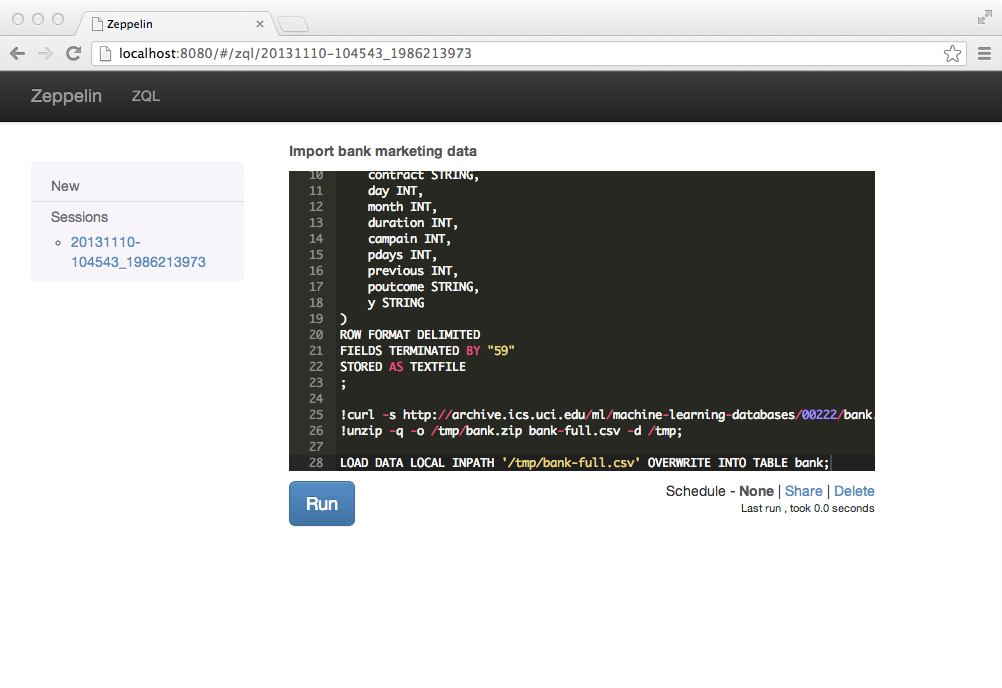
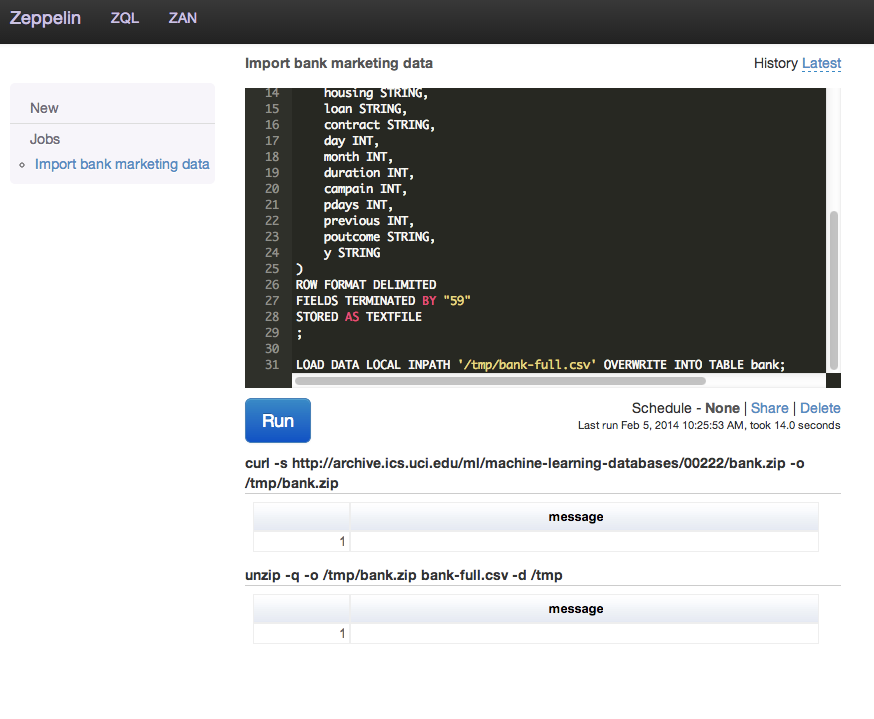
ZEPPELIN-91 Update homepage for 0.3.0

diff --git a/docs/install/install.md b/docs/install/install.md
@@ -17,14 +17,14 @@ curl -O http://apache.mirror.cdnetworks.com/hadoop/common/hadoop-1.2.1/hadoop-1.
 tar -xzf hadoop-1.2.1-bin.tar.gz
 
 # download zeppelin and unarchive
-curl -O https://s3-ap-northeast-1.amazonaws.com/zeppel.in/zeppelin-0.2.0.tar.gz
-tar -xzf zeppelin-0.2.0.tar.gz
+curl -O https://s3-ap-northeast-1.amazonaws.com/zeppel.in/zeppelin-0.3.0.tar.gz
+tar -xzf zeppelin-0.3.0.tar.gz
 
 # set HADOOP_HOME
-echo "export HADOOP_HOME=`pwd`/hadoop-1.2.1" >> zeppelin-0.2.0/conf/zeppelin-env.sh
+echo "export HADOOP_HOME=`pwd`/hadoop-1.2.1" >> zeppelin-0.3.0/conf/zeppelin-env.sh
 
 # start zeppelin
-./zeppelin-0.2.0/bin/zeppelin-daemon.sh start
+./zeppelin-0.3.0/bin/zeppelin-daemon.sh start
 
 ```
 
@@ -71,7 +71,7 @@ Configuration can be done by both environment variable and java properties. If b
   <tr>
     <td>ZEPPELIN\_JOB\_DIR</td>
     <td>zeppelin.job.dir</td>
-    <td>sessions</td>
+    <td>jobs</td>
     <td>Zeppelin persist/load session in this directory. Can be a path or a URI. location on HDFS supported</td>
   </tr>
   <tr>
@@ -93,23 +93,19 @@ Configuration can be done by both environment variable and java properties. If b
     <td>Zeppelin library shared repository. Location on HDFS. Usufull when your backend (eg. hiveserver) is not running on the sam machine and want to use zeppelin library with resource file(eg. in hive 'ADD FILE 'path'). So your backend can get resource file from shared repository.</td>
   </tr>
   <tr>
-    <td>ZEPPELIN\_DRIVER</td>
-    <td>zeppelin.driver.class</td>
-    <td>com.nflabs.zeppelin.driver.hive.HiveZeppelinDriver</td>
-    <td>Zeppelin Driver class</td>
+    <td>ZEPPELIN\_DRIVERS</td>
+    <td>zeppelin.drivers</td>
+    <td>hive:hive2://,exec:exec://</td>
+    <td>Comma separated list of [Name]:[Connection URI]</td>
   </tr>
   <tr>
-    <td>HIVE\_CONNECTION\_URI</td>
-    <td>hive.connection.uri</td>
-    <td>jdbc:hive2://</td>
-    <td>Hive jdbc connection uri. Used for connecting to hive server 
-Driver specific configuration : Hive Driver (com.nflabs.zeppelin.driver.hive.HiveZeppelinDriver).
-       eg. jdbc:hive2://localhost:10000/default, jdbc:hive://localhost:10000/default       
+    <td>ZEPPELIN\_DRIVER\_DIR</td>
+    <td>zeppelin.driver.dir</td>
+    <td>drivers</td>
+    <td>Zeppelin driver directory.
     </td>
   </tr>
 </table>
-
-Place your core-site.xml, hdfs-site.xml, hive-site.xml in _conf_ directory as you need. Zeppelin will include them in classpath on startup.
 
 ## Start/Stop
 #### Start Zeppelin

diff --git a/zql.md b/zql.md
@@ -11,13 +11,15 @@ ZQL is very simple but powerful SQL like language based on HiveQL. ZQL can be ru
 
 ### ZQL syntax
 ```
-ZQLStmt            : HiveQLStmt | LibraryStmt | ZQLStmt (PipeOperator ZQLStmt)*
+ZQLStmt            : (HiveQLStmt | LibraryStmt | ZQLStmt (PipeOperator ZQLStmt)* | AnnotationStmt) StmtTerminator
+AnnotationStmt     : @(driver) CMD (ARGUMENT)?
 HiveQLStmt         : HIVE_QUERY
 LibraryStmt        : LIBRARY_NAME(paramName1=paramValue1, paramName2=paramValue2, ...)? (ARGUMENT)?
 RedirectStmt       : ZQLStmt RedirectOperator (table|view)? TABLE_NAME
 ExecStmt           : !SHELL_COMMAND
 PipeOperator       : |
 RedirectOperator   : >
+StmtTerminator     : ;
 ```
 
 ### Template
@@ -82,10 +84,17 @@ select text from myTable | wordcount > wc_out;               // load | process >
 select * from wc_out limit 10;                               // print first 10 rows of wc_out
 ```
 
-Shell command
+Annotation
 
 ```
-!date                                                        // print date
+@driver set exec;                                            // set current driver to exec
+date;                                                        // print date
+whoami;                                                      // print who i am. 'driver set' annotation applied 
+                                                             // until next 'drvier set' annotation
+
+@driver set hive;                                            // set current driver to hive
 select text from myTable | wordcount > wc_out;               // load | process > export
-!echo "finished" | mail -s "JOB_FINISHED" hello@world.net    // send email
+
+@driver set exec;                                            // set current driver to exec
+bash -c 'echo "finished" | mail -s "JOB_FINISHED" hello@world.net';     // send email
 ```

diff --git a/download.md b/download.md
@@ -11,17 +11,22 @@ group: nav-right
 
 Officail stable releases. Check [install](./docs/install/install.html). (standalone mode instruction included)
 
-#### Zeppelin-0.2.0
+#### Zeppelin-0.3.0
 
-Download [zeppelin-0.2.0.tar.gz](https://s3-ap-northeast-1.amazonaws.com/zeppel.in/zeppelin-0.2.0.tar.gz), ([release note](https://zeppelin-project.atlassian.net/secure/ReleaseNote.jspa?projectId=10001&version=10001))
-
-
+Download [zeppelin-0.3.0.tar.gz](https://s3-ap-northeast-1.amazonaws.com/zeppel.in/zeppelin-0.3.0.tar.gz), ([release note](https://zeppelin-project.atlassian.net/secure/ReleaseNote.jspa?projectId=10001&version=10200))
 
 
 ### Nightly Build
 This is snapshot release. Which contains latest improvement, new features. but unproven, some may be broken.
 
-#### Snapshot 0.3.0-SNAPSHOT
+#### Snapshot 0.3.1-SNAPSHOT
 
-Download [zeppelin-0.3.0-SNAPSHOT.tar.gz](https://s3-ap-northeast-1.amazonaws.com/zeppel.in/zeppelin-0.3.0-SNAPSHOT.tar.gz)
+Download [zeppelin-0.3.1-SNAPSHOT.tar.gz](https://s3-ap-northeast-1.amazonaws.com/zeppel.in/zeppelin-0.3.1-SNAPSHOT.tar.gz)
+
+
+## Old release
+
+#### Zeppelin-0.2.0
+
+Download [zeppelin-0.2.0.tar.gz](https://s3-ap-northeast-1.amazonaws.com/zeppel.in/zeppelin-0.2.0.tar.gz), ([release note](https://zeppelin-project.atlassian.net/secure/ReleaseNote.jspa?projectId=10001&version=10001))
 

diff --git a/zengine.md b/zengine.md
@@ -14,10 +14,11 @@ Word Count
 import com.nflabs.zeppelin.zengine.*
 import com.nflabs.zeppelin.result.*
 ...
+Zengine z = new Zengine();                                    // initialize Zengine
 result = new Q("select text from myTable")                    // load some data
               .pipe(new L("wordcount"))                       // load wordcount library
-              .execute()                                      // execute
-	      .result();
+              .execute(z)                                     // execute
+              .result();
 
 result.write(System.out);                                     // Print result to stdout
 ...
@@ -33,7 +34,7 @@ to use it add dependency in your pom.xml
 <dependency>
     <groupId>com.nflabs.zeppelin</groupId>
     <artifactId>zeppelin-zengine</artifactId>
-    <version>0.2.0</version>
+    <version>0.3.0</version>
 </dependency>
 ```
 if you want access snapshot
@@ -42,7 +43,7 @@ if you want access snapshot
 <dependency>
     <groupId>com.nflabs.zeppelin</groupId>
     <artifactId>zeppelin-zengine</artifactId>
-    <version>0.3.0-SNAPSHOT</version>
+    <version>0.3.1-SNAPSHOT</version>
 </dependency>
 
 ...

diff --git a/docs/tutorials/tutorial1.md b/docs/tutorials/tutorial1.md
@@ -27,9 +27,19 @@ You can create new job with 'New' button. You'll see ZQL editor on the screen.
 
 We'll use data [Bank Marketing Data Set](http://archive.ics.uci.edu/ml/datasets/Bank+Marketing) in this tutorial.
 
-Let's create table first.
+
+Let's download and unarchive the data, using exec driver.
 
 ```
+@driver set exec;
+curl -s http://archive.ics.uci.edu/ml/machine-learning-databases/00222/bank.zip -o /tmp/bank.zip;
+unzip -q -o /tmp/bank.zip bank-full.csv -d /tmp;
+```
+
+Then create table and load data into the table.
+
+```
+@driver set hive;
 CREATE TABLE IF NOT EXISTS bank(
     age INT, 
     job STRING,
@@ -52,19 +62,8 @@ CREATE TABLE IF NOT EXISTS bank(
 ROW FORMAT DELIMITED 
 FIELDS TERMINATED BY "59" 
 STORED AS TEXTFILE 
-; 
-```
+;
 
-And then download and unarchive the data, using shell command statement (starting with !)
-
-```
-!curl -s http://archive.ics.uci.edu/ml/machine-learning-databases/00222/bank.zip -o /tmp/bank.zip;
-!unzip -q -o /tmp/bank.zip bank-full.csv -d /tmp;
-```
-
-Load downloaded data into table using HQL's load
-
-```
 LOAD DATA LOCAL INPATH '/tmp/bank-full.csv' OVERWRITE INTO TABLE bank;
 ```
 

diff --git a/index.md b/index.md
@@ -12,7 +12,7 @@ Simple analytical environment on top of Hadoop ecosystem.
 
 Zeppelin provides
 
- * SQL like analytical language [ZQL](./zql.html) (HiveQL extension)
+ * SQL like analytical language [ZQL](./zql.html) (based on HiveQL)
  * Pluggable visualization
  * Pluggable algorithm
  * Online archive of visualization, algorithm. [ZAN](./zan.html) (Zeppelin Archive Network)
@@ -68,7 +68,7 @@ Checkout [screenshots](./screenshots.html).
 ## Lates News
 
 
-#### Zeppelin 0.2.0 Released! ####
+#### Zeppelin 0.3.0 Released! ####
  
 [Check here](./download.html)
 
